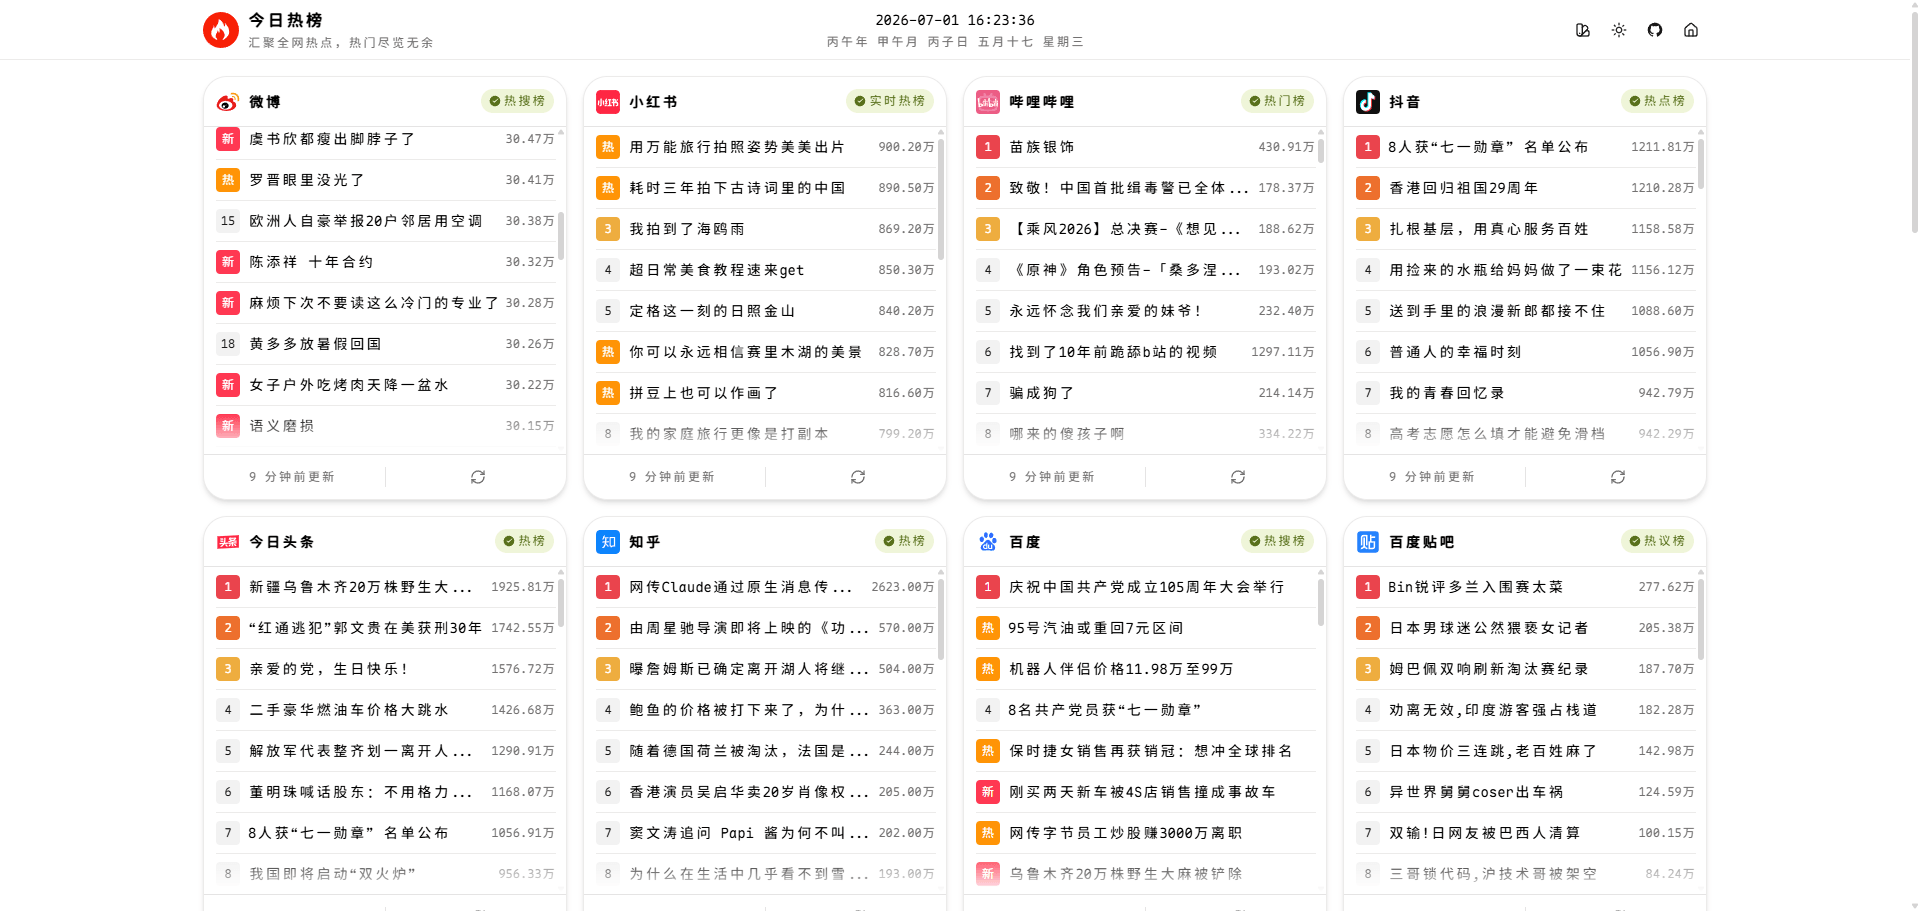
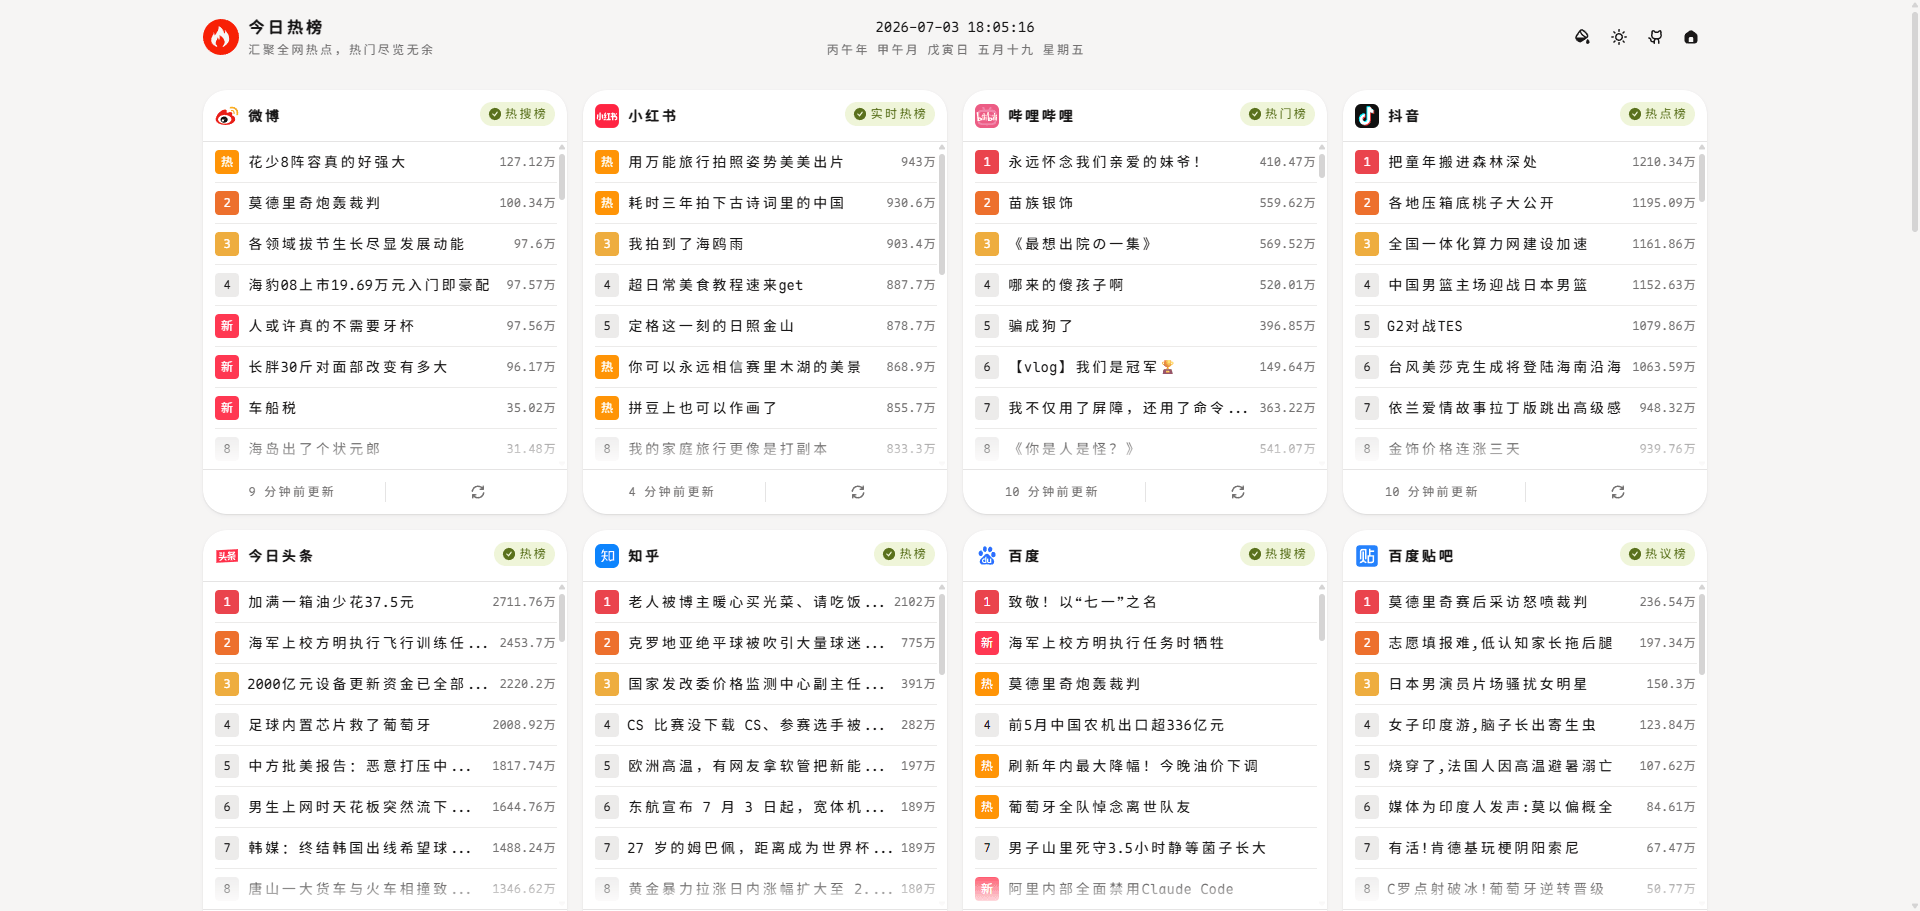
feat(public): 整理图片文件

diff --git a/src/components/HotSettings/index.tsx b/src/components/HotSettings/index.tsx
@@ -2,7 +2,7 @@
  * @Author: 白雾茫茫丶<baiwumm.com>
  * @Date: 2025-11-20 11:05:40
  * @LastEditors: 白雾茫茫丶<baiwumm.com>
- * @LastEditTime: 2026-07-03 14:56:30
+ * @LastEditTime: 2026-07-03 18:09:45
  * @Description: 热榜显示
  */
 'use client';
@@ -154,7 +154,7 @@ export default function HotSettings() {
                                 <Grip width={16} />
                               </SortableItemHandle>
                               <Image
-                                src={`/${value}.svg`}
+                                src={`/images/${value}.svg`}
                                 alt={raw.label}
                                 width={16}
                                 height={16}

diff --git a/src/components/HotCard/index.tsx b/src/components/HotCard/index.tsx
@@ -85,7 +85,7 @@ const HotCard = ({ value, label, tip, prefix, suffix }: App.HotListConfig) => {
       <Card.Header className="flex justify-between items-center flex-row p-3">
         <div className="flex items-center gap-2">
           <Image
-            src={`/${value}.svg`}
+            src={`/images/${value}.svg`}
             alt={`${label}${tip}`}
             width={24}
             height={24}